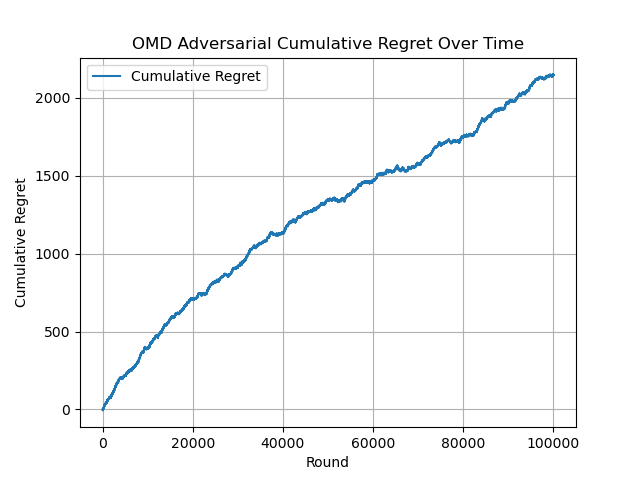
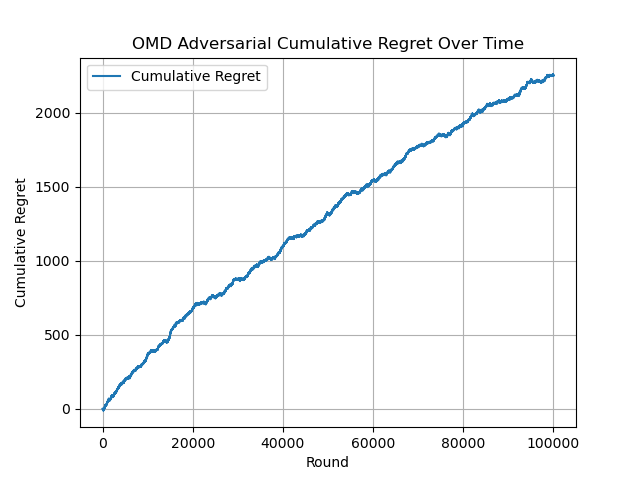
got rid of stuff malo da3i

diff --git a/somanyadversaries.py b/somanyadversaries.py
@@ -72,8 +72,8 @@ class AdversarialEnvironment:
 learning_rate = 0.01
 number_of_arms = 10
 T = 100000
-number_of_simulations = 10000
-temp_regularizer = 5
+number_of_simulations = 1
+temp_regularizer = 10
 
 loss_function = AdversarialEnvironment(number_of_arms)
 
@@ -94,21 +94,43 @@ for t in range(T):
 
 
 class OMD:
-    def __init__(self, number_of_arms, learning_rate, regularizer=5):
+    def __init__(self, number_of_arms, learning_rate, regularizer):
         self.number_of_arms = number_of_arms
         self.learning_rate = learning_rate
         self.regularizer = regularizer
         self.weights = [1.0] * number_of_arms
-        self.normalization_factor = 0
+        self.normalization_factor = 10
         self.estimated_loss_vector = [0.0] * number_of_arms
+        
+    def newtons_approximation_for_arm_weights(self, normalization_factor, estimated_loss_vector, learning_rate):
+        weights_for_arms = []
+        epsilon = 0.001
+        sum_of_weights = 0
+        for arm in range(len(estimated_loss_vector)):
+            inner_product = learning_rate * (estimated_loss_vector[arm] - normalization_factor)
+            exponent_of_inner_product = math.pow(inner_product + epsilon, -2)
+            weight_of_arm = 4 * exponent_of_inner_product
+            weights_for_arms.append(weight_of_arm)
+            for arm_weight in range(len(weights_for_arms)):
+                sum_of_weights += weights_for_arms[arm_weight]
+            numerator = sum_of_weights - 1
+            denominator = learning_rate * math.pow(sum_of_weights, 3/2) 
+            updated_normalization_factor = normalization_factor - (numerator / denominator)
+            difference_in_normalization_factors = updated_normalization_factor - normalization_factor
+            if(difference_in_normalization_factors < epsilon):
+                break
+            else:
+                continue
+        return weights_for_arms, updated_normalization_factor
 
     def select_arm(self):
-        self.weights, self.normalization_factor = newtons_approximation_for_arm_weights(self.normalization_factor, self.estimated_loss_vector, self.learning_rate)
+        self.weights, self.normalization_factor = self.newtons_approximation_for_arm_weights(self.normalization_factor, self.estimated_loss_vector, self.learning_rate)
         probabilites_of_arms = self.weights
         action_chosen = drawArm(probabilites_of_arms)
         return action_chosen
-
+    
     def update(self, chosen_arm, loss):
+        self.weights, self.normalization_factor = self.newtons_approximation_for_arm_weights(self.normalization_factor, self.estimated_loss_vector, self.learning_rate)
         if self.weights[chosen_arm] > 0:
             x = loss / self.weights[chosen_arm]
         else:
@@ -116,9 +138,6 @@ class OMD:
         growth_factor = math.exp((self.learning_rate / self.number_of_arms) * x)
         self.weights[chosen_arm] *= growth_factor
         self.estimated_loss_vector[chosen_arm] += loss
-        self.weights, self.normalization_factor = newtons_approximation_for_arm_weights(
-            self.normalization_factor, self.estimated_loss_vector, self.learning_rate
-    )
 
 class AdversarialEnvironment:
     def __init__(self, number_of_arms):
@@ -129,28 +148,35 @@ class AdversarialEnvironment:
     def getLoss(self, chosen_arm):
         self.history[chosen_arm] += 1
         if chosen_arm == self.best_arm:
-            return 1 if random.random() < 0.7 else 0
+            if random.random() < 0.7:
+                return 1
+            else:
+                return 0
         else:
-            return 1 if random.random() < 0.3 else 0
-
+            if random.random() < 0.3:
+                return 1
+            else:
+                return 0
 
 learning_rate = 0.01
 number_of_arms = 10
-T = 100000 
-loss_function = AdversarialEnvironment(number_of_arms)
-omd = OMD(number_of_arms, learning_rate)
+T = 100000
+regularizer = 10
+simulations = 1
 
-omd_regrets = []
-cumulative_loss = 0
+for simulation in range(simulations):
+    loss_function = AdversarialEnvironment(number_of_arms)
+    omd = OMD(number_of_arms, learning_rate, regularizer)
+    omd_regrets = []
+    cumulative_loss = 0
 
-for t in range(T):
-    chosen_arm = omd.select_arm()
-    loss = loss_function.getLoss(chosen_arm)
-    cumulative_loss += loss
-    omd.update(chosen_arm, loss)
-    
-    optimal_loss = (t + 1) * 0.3
-    omd_regrets.append(cumulative_loss - optimal_loss)
+    for t in range(T):
+        chosen_arm = omd.select_arm()
+        loss = loss_function.getLoss(chosen_arm)
+        cumulative_loss += loss
+        omd.update(chosen_arm, loss)
+        optimal_loss = (t + 1) * 0.3
+        omd_regrets.append(cumulative_loss - optimal_loss)
 
 def categorical_draw(probs):
     choice = random.uniform(0, sum((probs)))
@@ -160,7 +186,6 @@ def categorical_draw(probs):
         if choice <= 0:
             return choiceIndex
         choiceIndex += 1
-
 
 class Exp3:
     def __init__(self, learning_rate):
@@ -228,7 +253,7 @@ for t in range(n_rounds):
     optimal_reward = (t + 1) * 0.7
     regret.append(optimal_reward - cumulative_reward)
 
-plt.plot(ugly_graph_omd_regrets, label='OMD_for_bandits method', color='blue')
+plt.plot(ugly_graph_omd_regrets, label='OMD For Bandits Method', color='blue')
 plt.plot(omd_regrets, label='OMD Class', color='red')
 plt.plot(regret, label="EXP3 Regret", color ="green")
 plt.xlabel('Round')

diff --git a/updatedstochasticomd.py b/updatedstochasticomd.py
@@ -58,33 +58,41 @@ class OMD:
         self.weights[chosen_arm] *= growth_factor
         self.estimated_loss_vector[chosen_arm] += loss
 
-class AdversarialEnvironment:
+    # w_t = omd_bandit.choose_distribution(t)  # Get probability distribution
+    # I_t = omd_bandit.sample_arm(w_t)  # Sample arm
+    # loss_t = np.random.binomial(1, true_means[I_t])  # Simulated stochastic loss (Bernoulli)
+    # optimal_loss = np.min(true_means)  # Best possible expected loss
+
+    # omd_bandit.update(I_t, loss_t, w_t)
+
+    # regret = true_means[I_t] - optimal_loss
+    # cumulative_regret += regret
+    # regrets.append(cumulative_regret)
+    
+np.random.seed(123456)
+
+class StochasticEnvironment:
     def __init__(self, number_of_arms):
         self.number_of_arms = number_of_arms
         self.history = np.zeros(number_of_arms)
-        self.best_arm = random.randint(0, number_of_arms - 1)
+        self.arm_means = np.random.uniform(0.1, 0.9, self.number_of_arms)
+        self.best_arm = np.argmax(self.arm_means)
 
     def getLoss(self, chosen_arm):
         self.history[chosen_arm] += 1
-        if chosen_arm == self.best_arm:
-            if random.random() < 0.7:
-                return 1
-            else:
-                return 0
-        else:
-            if random.random() < 0.3:
-                return 1
-            else:
-                return 0
+        return np.random.binomial(1, self.arm_means[chosen_arm])
+        # return 1 - reward
 
 learning_rate = 0.01
 number_of_arms = 10
 T = 100000
-regularizer = 10
-simulations = 30
+regularizer = 5
+simulations = 1
+
+np.random.seed(123456)
 
 for simulation in range(simulations):
-    loss_function = AdversarialEnvironment(number_of_arms)
+    loss_function = StochasticEnvironment(number_of_arms)
     omd = OMD(number_of_arms, learning_rate, regularizer)
     regrets = []
     cumulative_loss = 0
@@ -94,9 +102,7 @@ for simulation in range(simulations):
         loss = loss_function.getLoss(chosen_arm)
         cumulative_loss += loss
         omd.update(chosen_arm, loss)
-        optimal_loss = (t + 1) * 0.3
-        # optimal_reward = (t + 1) * 0.7
-        # optimal_loss = 1 - optimal_reward
+        optimal_loss = (t + 1) * (1 - loss_function.arm_means[loss_function.best_arm])
         regrets.append(cumulative_loss - optimal_loss)
 
 plt.plot(regrets, label='Cumulative Regret')

diff --git a/exp3adversarial.py b/exp3adversarial.py
@@ -61,7 +61,8 @@ class Exp3: #class for our exp3 algortihm -> class lets us have constructors so 
         for arm in range(n_arms): #list comprehension getting obliterated 
             update_rule_for_arm = (1 - self.learning_rate) * (self.weights[arm] / total_weight) + (self.learning_rate / n_arms)
             probs.append(update_rule_for_arm)
-        return categorical_draw(probs) #based on this probability we sample an action
+        action_chosen = categorical_draw(probs)
+        return action_chosen #based on this probability we sample an action
 
     def update(self, chosen_arm, reward): #function for updating our array of reward estimators
         #here we taken in the arm the agent chose and the reward sampled which we need for our update
@@ -73,13 +74,13 @@ class Exp3: #class for our exp3 algortihm -> class lets us have constructors so 
         probs = []
         for arm in range(n_arms): #list comprehension getting obliterated again
             update_rule_for_arm = (1 - self.learning_rate) * (self.weights[arm] / total_weight) + (self.learning_rate / n_arms)
-            probs.append(update_rule_for_arm) 
+            probs.append(update_rule_for_arm)
         # x = reward / probs[chosen_arm] if probs[chosen_arm] > 0 else 0 #reward estimator
         if probs[chosen_arm] > 0:
-            x = reward / probs[chosen_arm]
+            reward_estimate = reward / probs[chosen_arm]
         else: #dont return anything (like update losses) if arm isn't chosen
             0
-        growth_factor = math.exp((self.learning_rate / n_arms) * x) #growth factor
+        growth_factor = math.exp((self.learning_rate / n_arms) * reward_estimate) #growth factor
         self.weights[chosen_arm] *= growth_factor #updating based off of the growth factor
 
 #adversarial environment same as the one defined in the UCB algorithm 
@@ -101,7 +102,7 @@ random.seed(1)
 np.random.seed(1)
 
 n_arms = 10
-n_rounds = 1000000
+n_rounds = 100000
 learning_rate = 0.01
 
 adversary = AdversarialEnvironment(n_arms)

diff --git a/sarcasticomd.py b/sarcasticomd.py
@@ -57,34 +57,31 @@ class OMD:
         growth_factor = math.exp((self.learning_rate / self.number_of_arms) * x)
         self.weights[chosen_arm] *= growth_factor
         self.estimated_loss_vector[chosen_arm] += loss
+    
+np.random.seed(123456)
 
-class AdversarialEnvironment:
+class StochasticEnvironment:
     def __init__(self, number_of_arms):
         self.number_of_arms = number_of_arms
         self.history = np.zeros(number_of_arms)
-        self.best_arm = random.randint(0, number_of_arms - 1)
+        self.arm_means = np.random.uniform(0.1, 0.9, self.number_of_arms)
+        self.best_arm = np.argmax(self.arm_means)
 
     def getLoss(self, chosen_arm):
         self.history[chosen_arm] += 1
-        if chosen_arm == self.best_arm:
-            if random.random() < 0.7:
-                return 1
-            else:
-                return 0
-        else:
-            if random.random() < 0.3:
-                return 1
-            else:
-                return 0
+        return np.random.binomial(1, self.arm_means[chosen_arm])
+        # return 1 - reward
 
 learning_rate = 0.01
 number_of_arms = 10
 T = 100000
-regularizer = 10
-simulations = 30
+regularizer = 5
+simulations = 1
+
+np.random.seed(123456)
 
 for simulation in range(simulations):
-    loss_function = AdversarialEnvironment(number_of_arms)
+    loss_function = StochasticEnvironment(number_of_arms)
     omd = OMD(number_of_arms, learning_rate, regularizer)
     regrets = []
     cumulative_loss = 0
@@ -94,9 +91,7 @@ for simulation in range(simulations):
         loss = loss_function.getLoss(chosen_arm)
         cumulative_loss += loss
         omd.update(chosen_arm, loss)
-        optimal_loss = (t + 1) * 0.3
-        # optimal_reward = (t + 1) * 0.7
-        # optimal_loss = 1 - optimal_reward
+        optimal_loss = (t + 1) * (1 - loss_function.arm_means[loss_function.best_arm])
         regrets.append(cumulative_loss - optimal_loss)
 
 plt.plot(regrets, label='Cumulative Regret')
